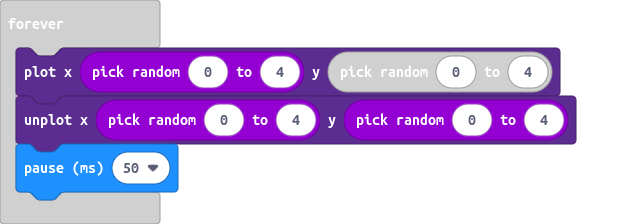
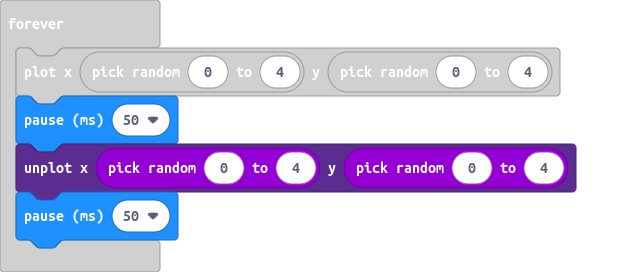
Update main.blocks, main.ts

diff --git a/main.ts b/main.ts
@@ -9,6 +9,7 @@ basic.showLeds(`
 basic.pause(100)
 basic.forever(function () {
     led.plot(randint(0, 4), randint(0, 4))
+    basic.pause(50)
     led.unplot(randint(0, 4), randint(0, 4))
     basic.pause(50)
 })
